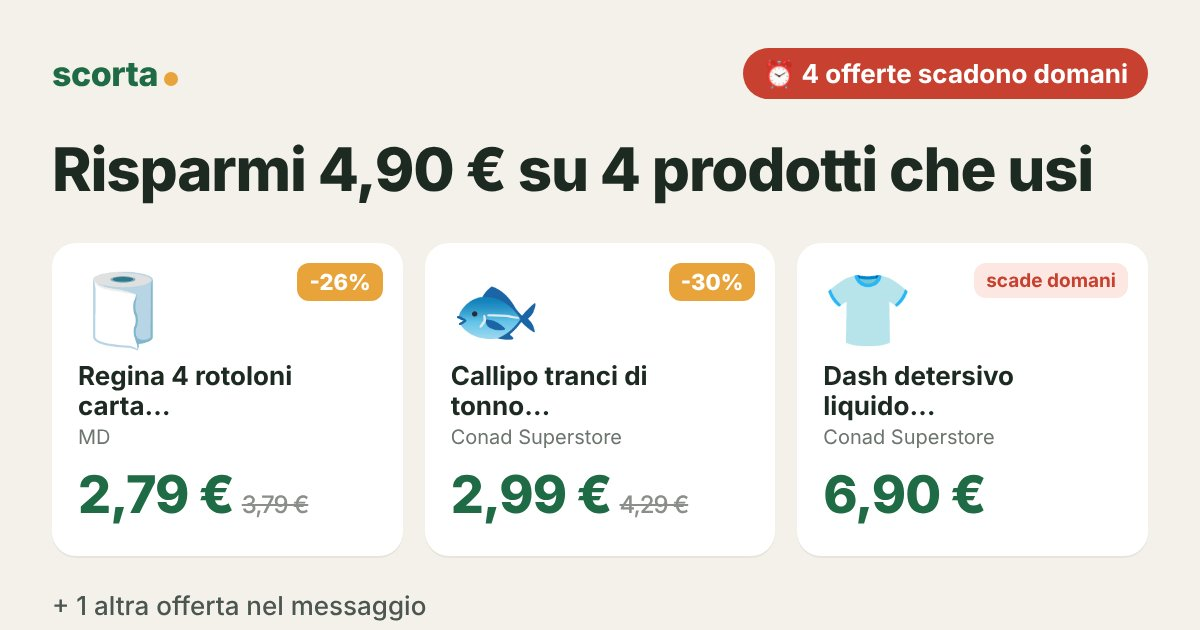
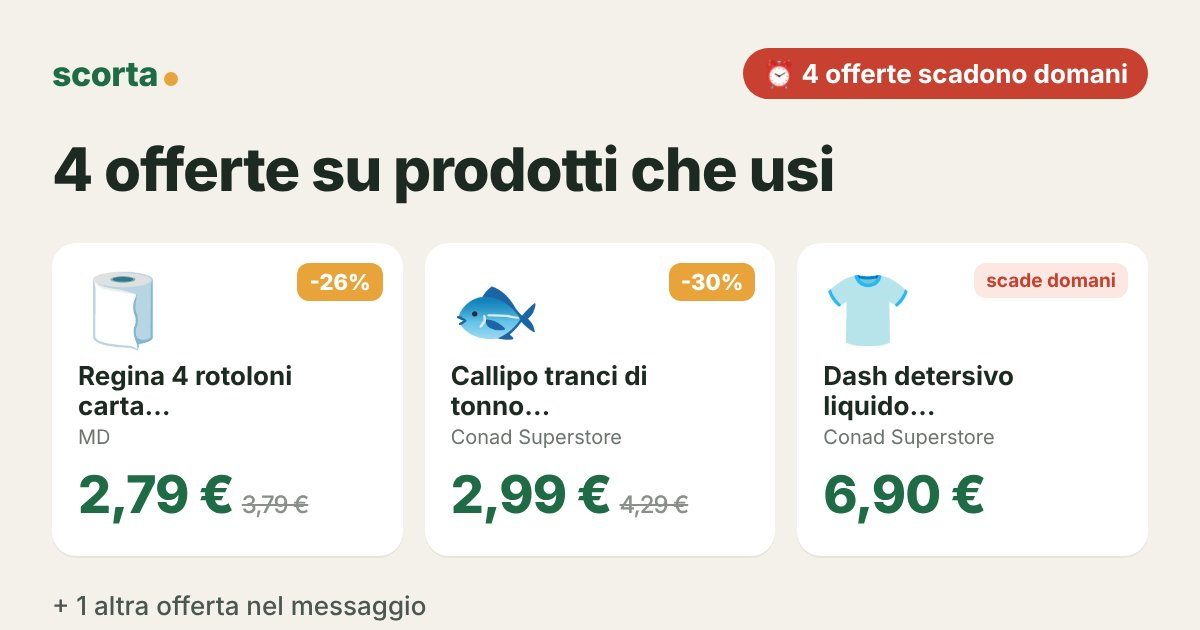
Pagine offerte 2026-10-31
Claude-Session: https://claude.ai/code/session_012BnByD7nnfoHswjF7TKs2L

Changed region(s): [[0.0308, 0.2111, 0.925, 0.3317]]

diff --git a/o/31ed0d9c/index.html b/o/31ed0d9c/index.html
@@ -1,6 +1,6 @@
 <!DOCTYPE html><html lang="it"><head><meta charset="utf-8"><meta name="viewport" content="width=device-width,initial-scale=1">
 <title>Le tue offerte Scorta</title><meta name="robots" content="noindex">
-<meta property="og:title" content="Risparmi 2,00 € su 4 prodotti che usi"><meta property="og:description" content="Le offerte Scorta sui prodotti che usi, nei negozi vicino a te.">
+<meta property="og:title" content="4 offerte su prodotti che usi"><meta property="og:description" content="Le offerte Scorta sui prodotti che usi, nei negozi vicino a te.">
 <meta property="og:image" content="https://scortait.github.io/o/31ed0d9c/card.jpg"><meta property="og:image:width" content="1200"><meta property="og:image:height" content="630"><meta property="og:image:type" content="image/jpeg">
 <meta property="og:url" content="https://scortait.github.io/o/31ed0d9c/"><meta property="og:site_name" content="Scorta"><meta property="og:type" content="website">
 <style>body{margin:0;font-family:-apple-system,system-ui,sans-serif;background:#F4F1EA;color:#1d2a22}main{max-width:560px;margin:auto;padding:16px}img{width:100%;border-radius:14px}

diff --git a/o/8577fc16/index.html b/o/8577fc16/index.html
@@ -1,6 +1,6 @@
 <!DOCTYPE html><html lang="it"><head><meta charset="utf-8"><meta name="viewport" content="width=device-width,initial-scale=1">
 <title>Le tue offerte Scorta</title><meta name="robots" content="noindex">
-<meta property="og:title" content="Risparmi 4,90 € su 4 prodotti che usi"><meta property="og:description" content="Le offerte Scorta sui prodotti che usi, nei negozi vicino a te.">
+<meta property="og:title" content="4 offerte su prodotti che usi"><meta property="og:description" content="Le offerte Scorta sui prodotti che usi, nei negozi vicino a te.">
 <meta property="og:image" content="https://scortait.github.io/o/8577fc16/card.jpg"><meta property="og:image:width" content="1200"><meta property="og:image:height" content="630"><meta property="og:image:type" content="image/jpeg">
 <meta property="og:url" content="https://scortait.github.io/o/8577fc16/"><meta property="og:site_name" content="Scorta"><meta property="og:type" content="website">
 <style>body{margin:0;font-family:-apple-system,system-ui,sans-serif;background:#F4F1EA;color:#1d2a22}main{max-width:560px;margin:auto;padding:16px}img{width:100%;border-radius:14px}
